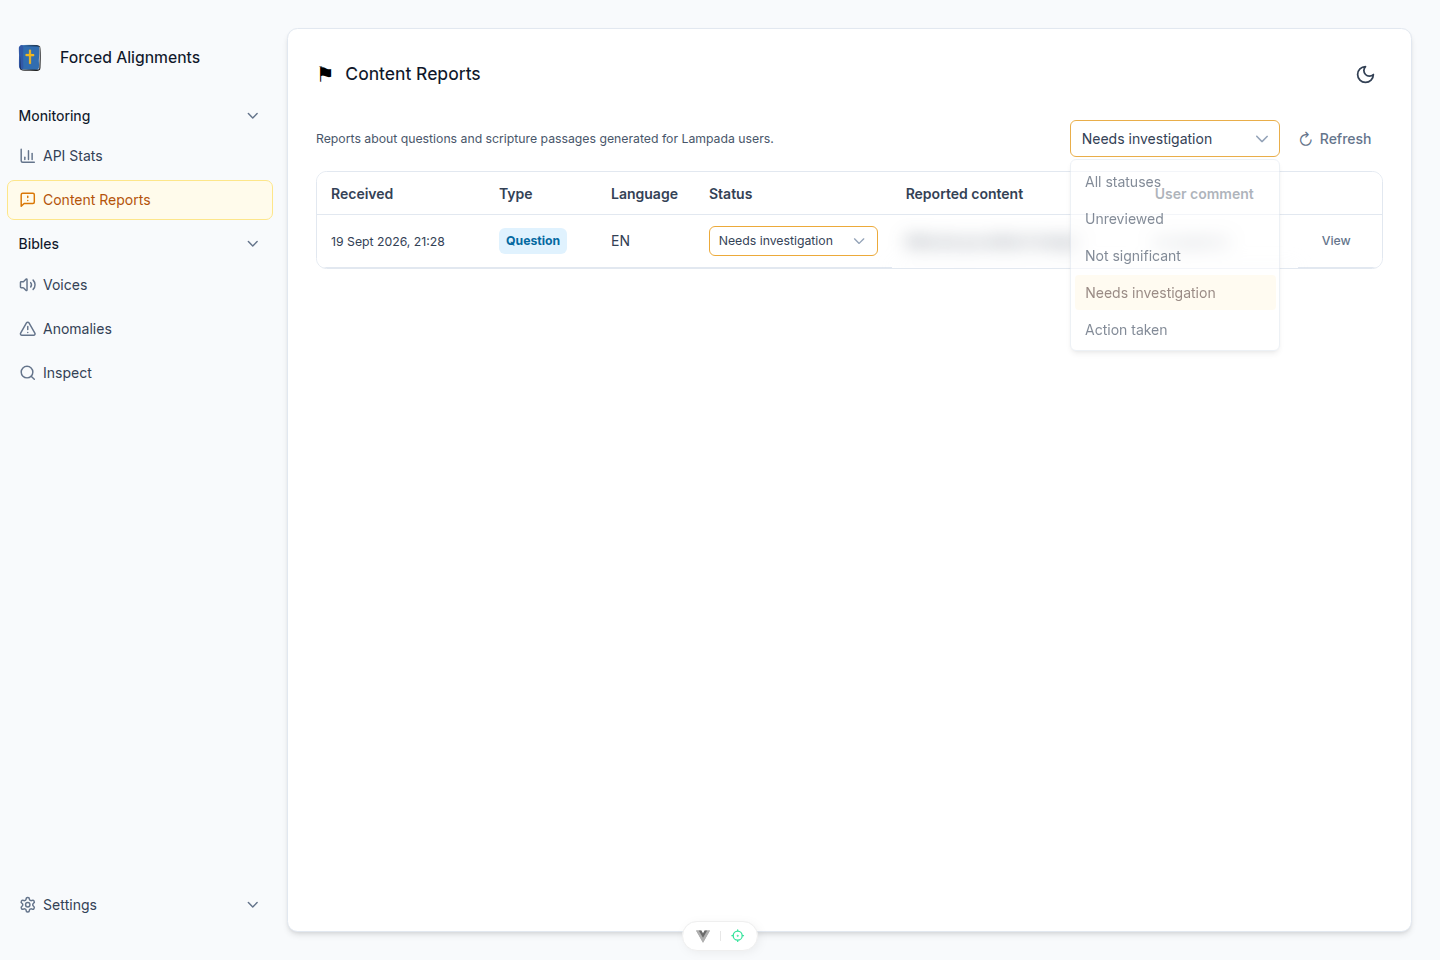
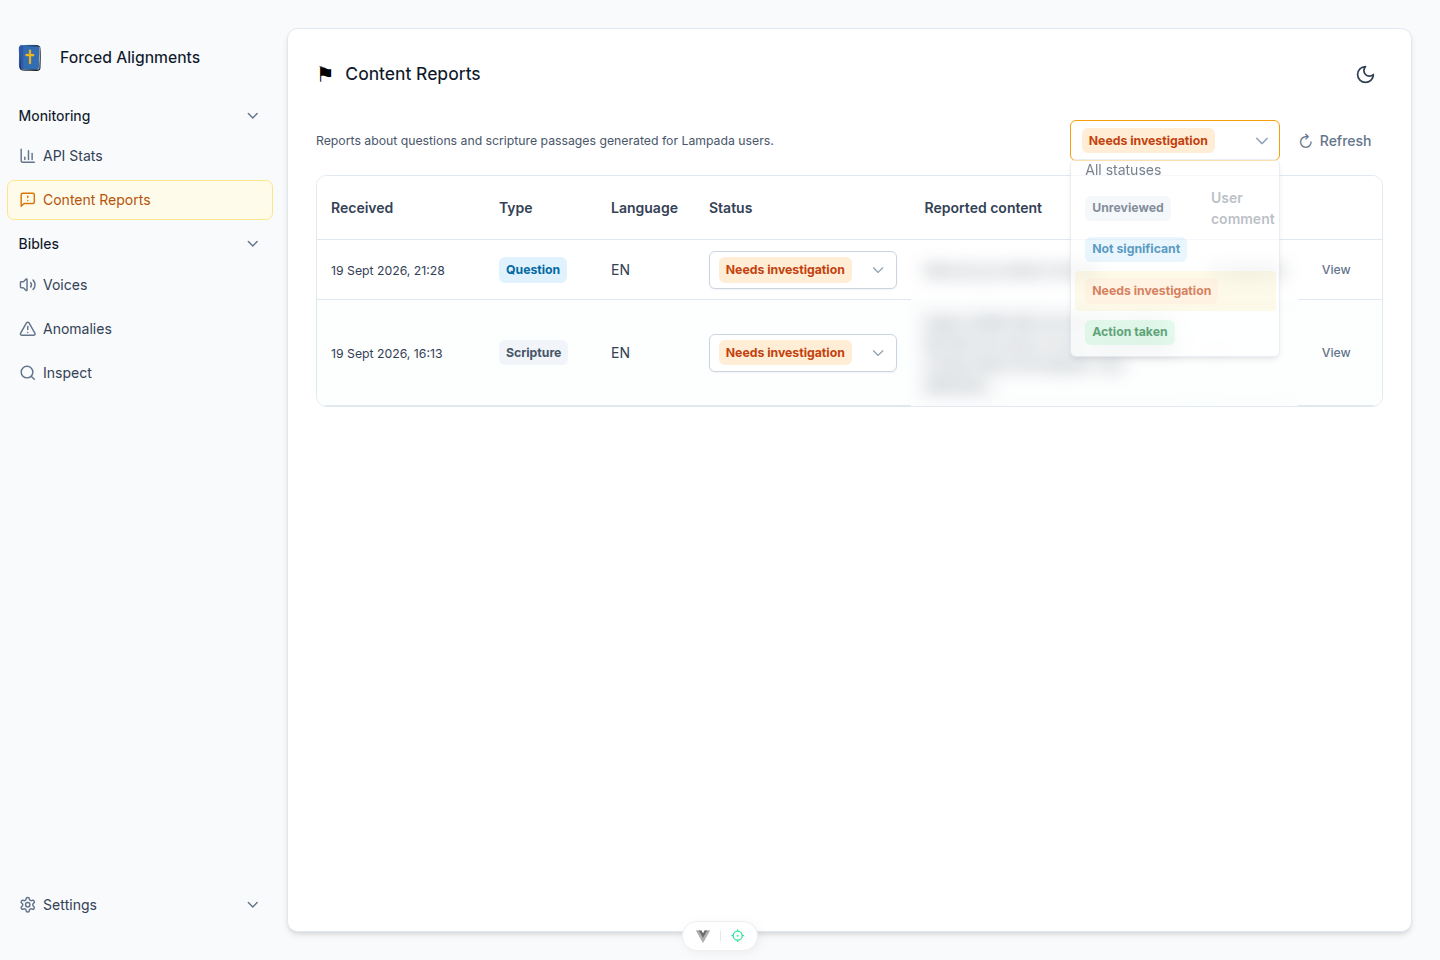
style(content-reports): color-code review statuses
ClickUp: 86cbj8wpj

diff --git a/src/Components/ContentReports.vue b/src/Components/ContentReports.vue
@@ -14,7 +14,24 @@
           aria-label="Filter reports by status"
           data-testid="content-report-status-filter"
           @change="refresh"
-        />
+        >
+          <template #value="{ value }">
+            <Tag
+              v-if="value"
+              :value="statusLabel(value)"
+              :severity="statusSeverity(value)"
+            />
+            <span v-else>All statuses</span>
+          </template>
+          <template #option="{ option }">
+            <Tag
+              v-if="option.value"
+              :value="option.label"
+              :severity="statusSeverity(option.value)"
+            />
+            <span v-else>{{ option.label }}</span>
+          </template>
+        </Select>
         <Button
           label="Refresh"
           icon="pi pi-refresh"
@@ -72,7 +89,14 @@
               :aria-label="`Status for report ${data.id}`"
               :data-testid="`content-report-status-${data.id}`"
               @update:modelValue="updateStatus(data, $event)"
-            />
+            >
+              <template #value="{ value }">
+                <Tag :value="statusLabel(value)" :severity="statusSeverity(value)" />
+              </template>
+              <template #option="{ option }">
+                <Tag :value="option.label" :severity="statusSeverity(option.value)" />
+              </template>
+            </Select>
           </template>
         </Column>
         <Column field="content_text" header="Reported content">
